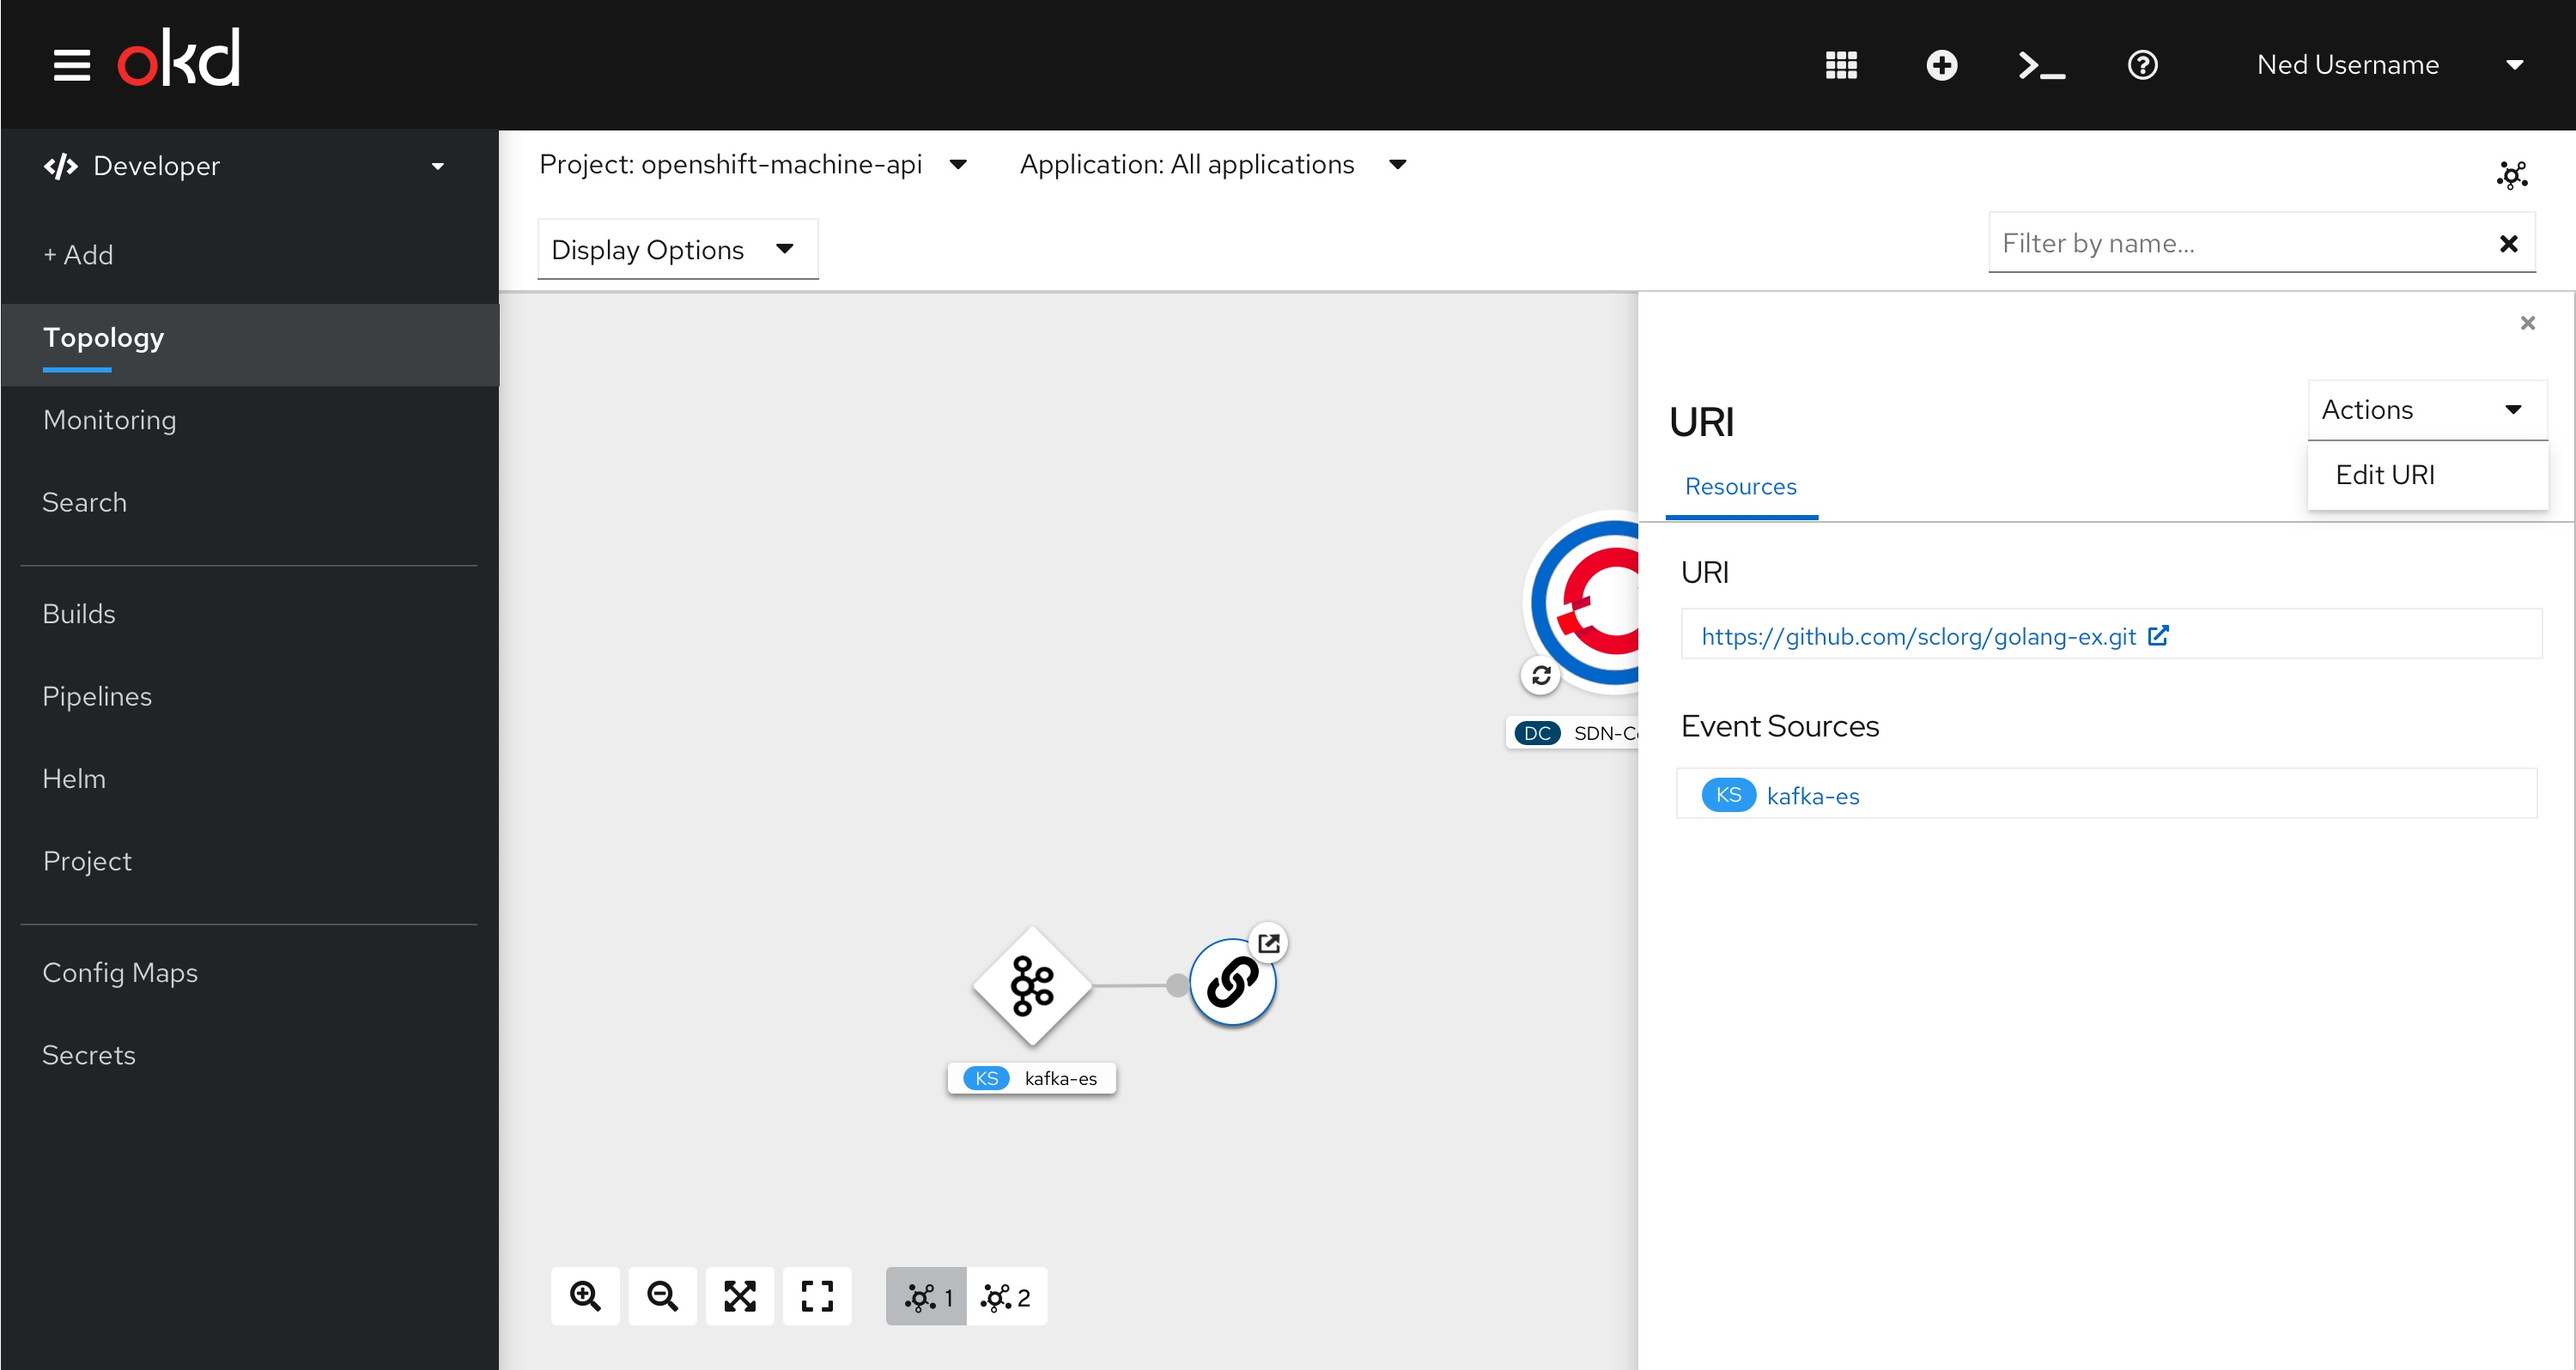
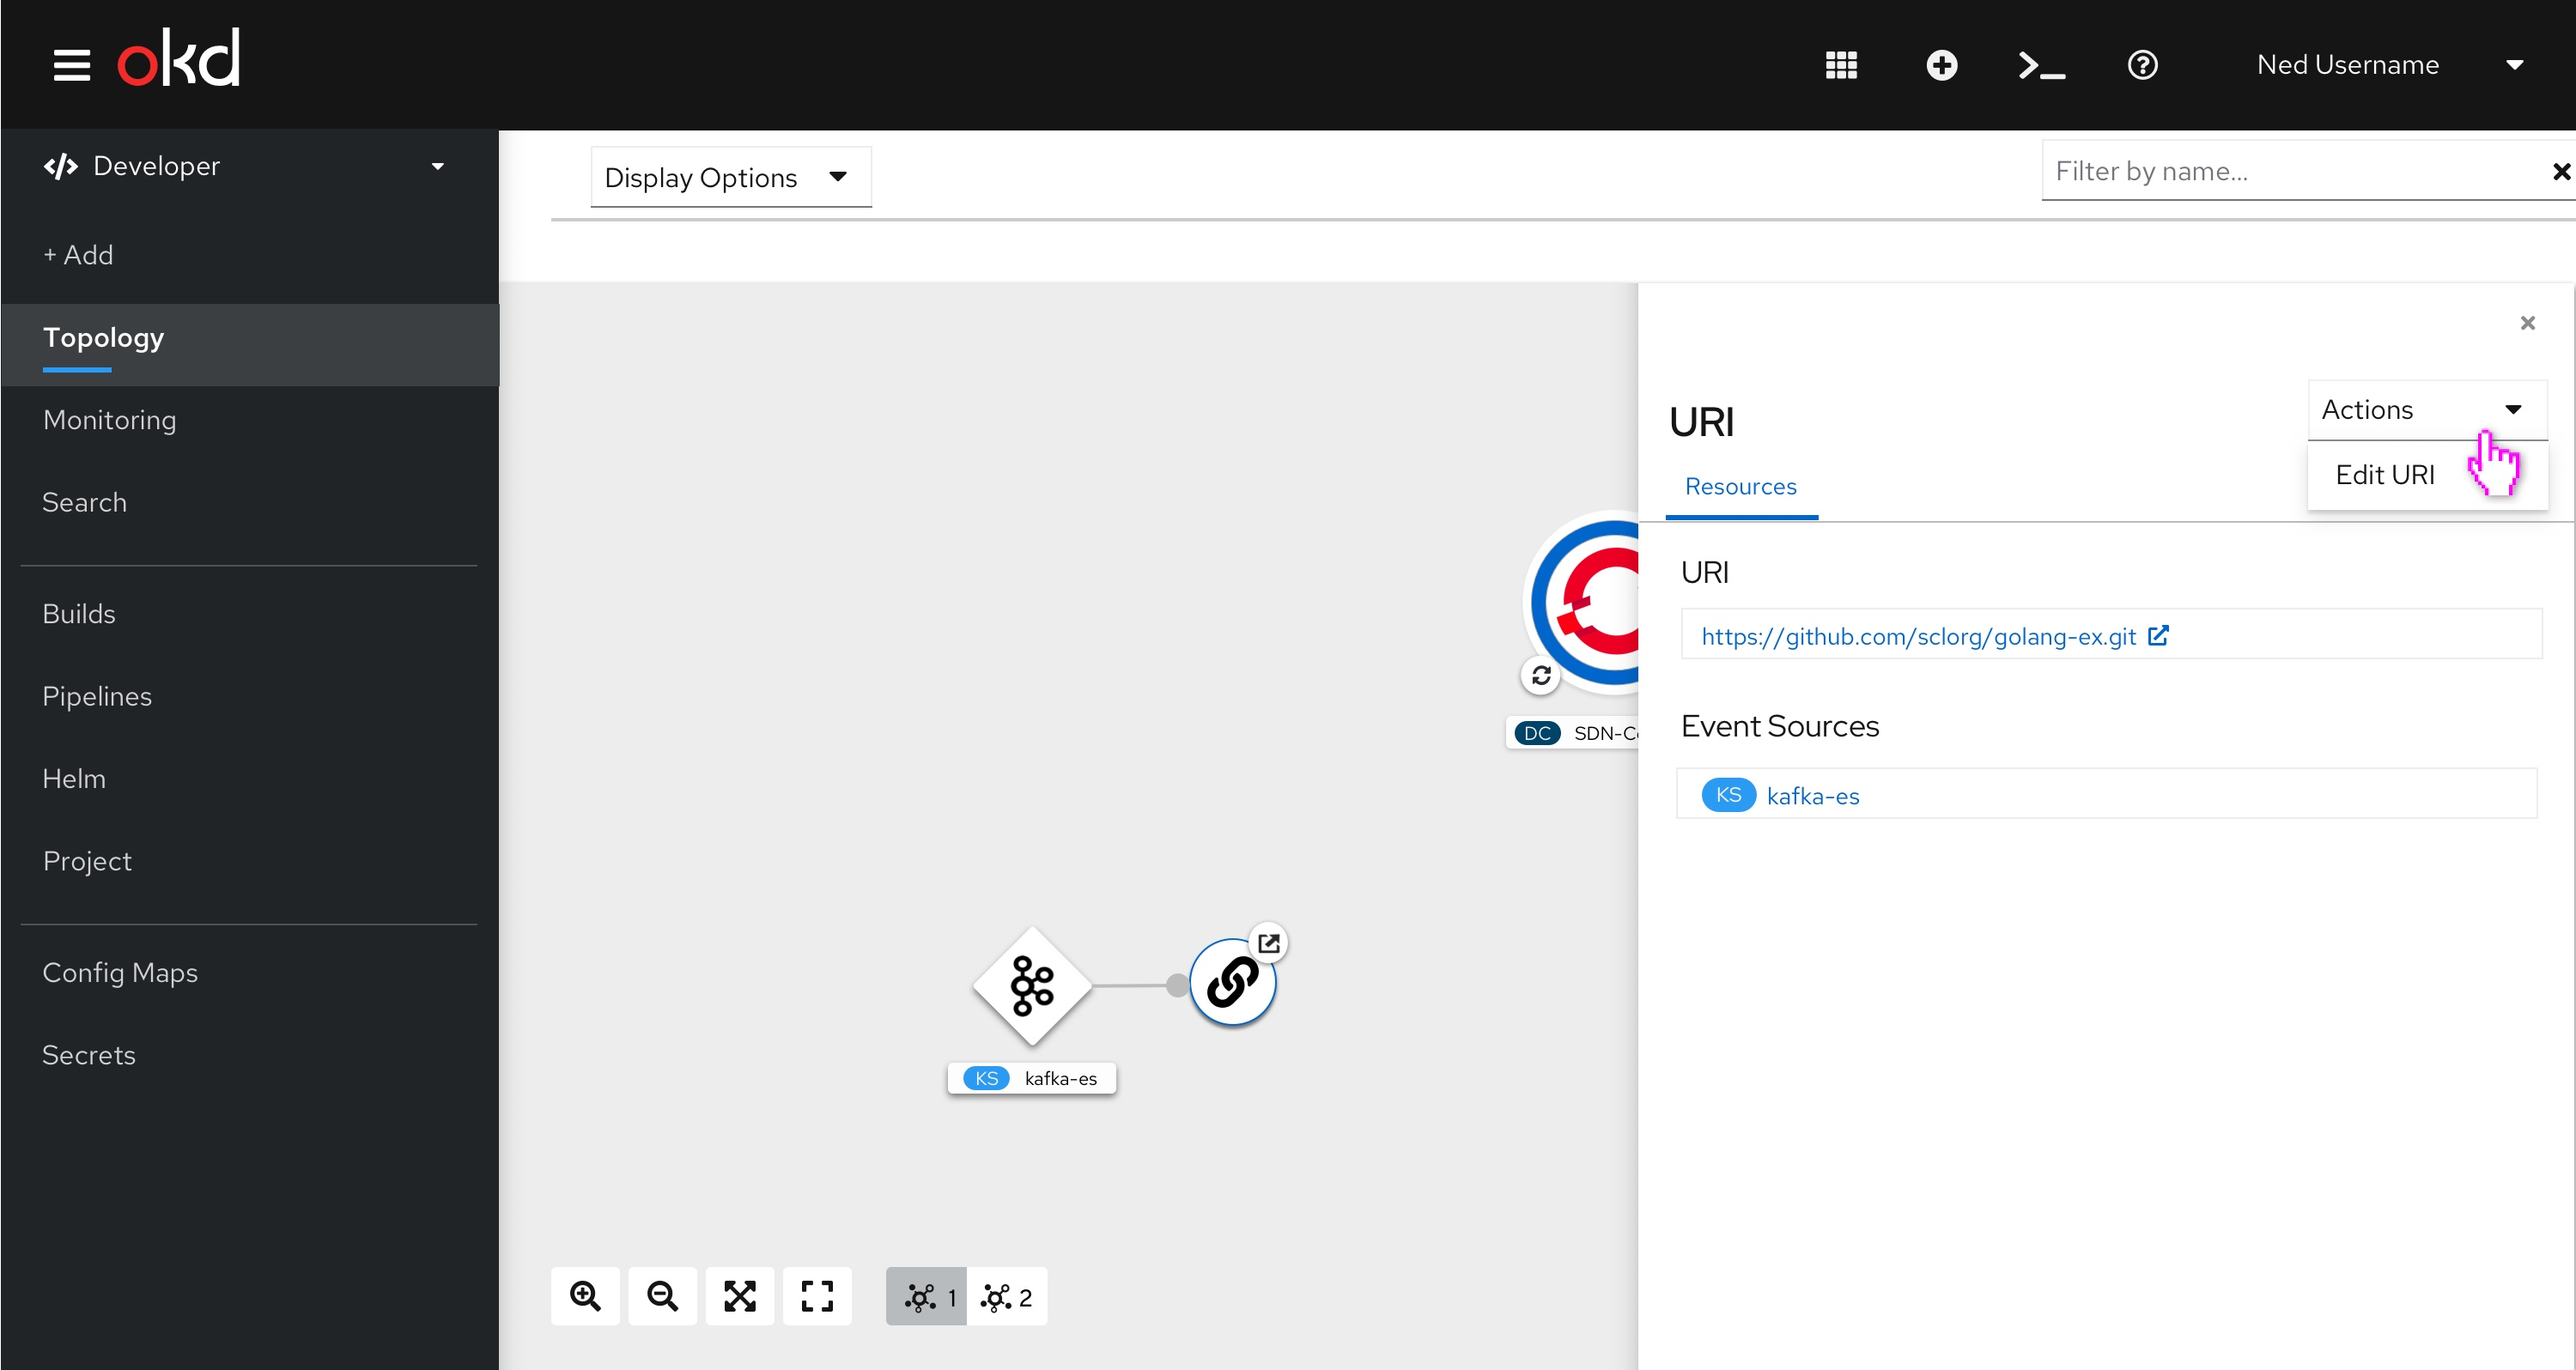
Updating images to have pointer

diff --git a/designs/developer/Eventing/Adding sink enhancements/index.md b/designs/developer/Eventing/Adding sink enhancements/index.md
@@ -48,14 +48,14 @@ The URI will behave like a node, so if it is selected the side panel will expand
 ## Side panel
 The link of the URI and the event sources that sink to the URI will be listed in the resources tab of the side panel. When the connector is selected, the side panel will have the url of the URI listed under ‘Connections’.
 
-![ uri side panel ](img/uri-sidepanel.jpg)
+![ uri side panel ](img/uri-sidepanel1.jpg)
 
 ## Actions Dropdown
 The only action in the actions dropdown menu would be “Edit URI”. If two events are connected to the same URI, in the edit URI include that editing the URI would affect multiple event sources.
 
-![ uri side panel acrions](img/side-panel-actions.png)
+![ uri side panel acrions](img/uri-sidepanelactions.jpg)
 
 ## In-Context Menu
 If a user right clicks on the URI, the in context menu would appear with “Edit URI”. The same rules apply as listed above for the actions dropdown menu.
 
-![ uri side panel acrions](img/edit-uri.png)
+![ uri side panel acrions](img/uri.png)
